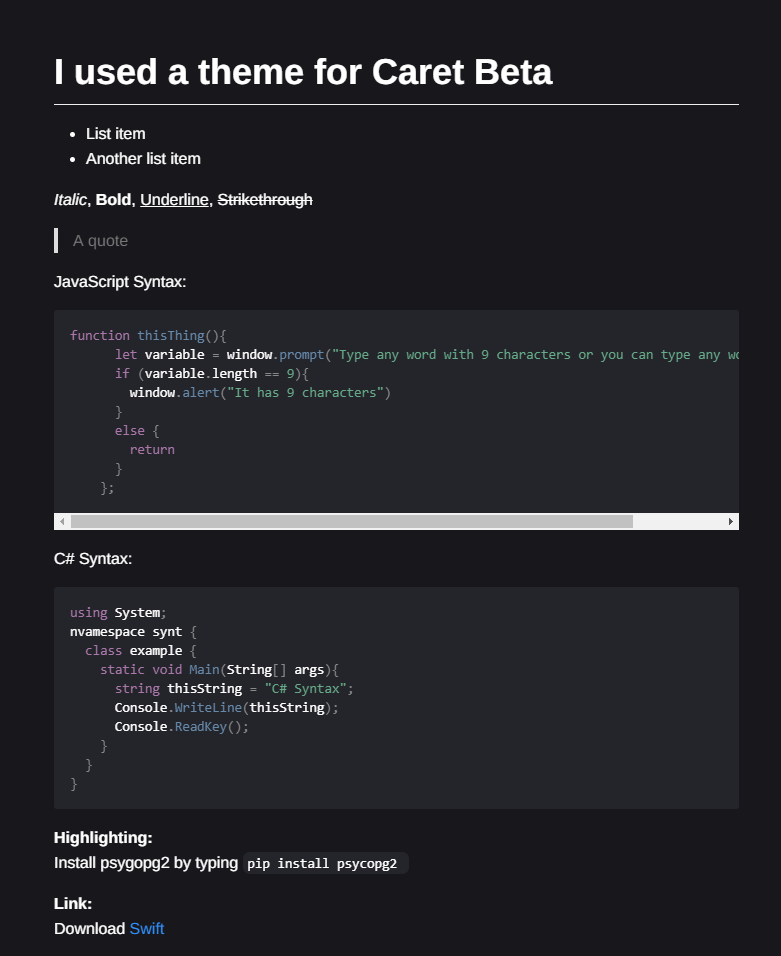
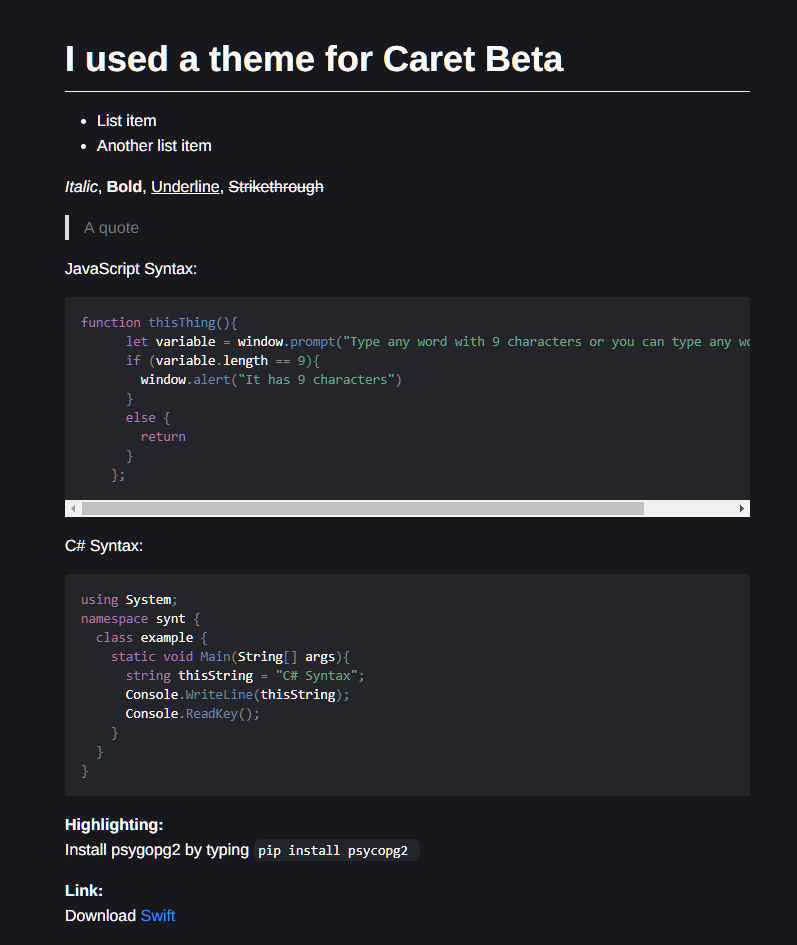
Changed 2 files
Wrong spelling of the word: namespace.

diff --git a/example.md b/example.md
@@ -23,7 +23,7 @@ function thisThing(){
 C# Syntax:
 ```csharp
 using System;
-nvamespace synt {
+namespace synt {
   class example {
     static void Main(String[] args){
       string thisString = "C# Syntax";
